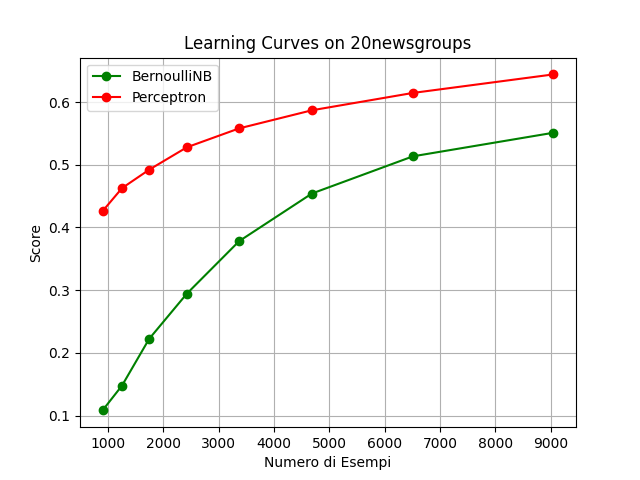
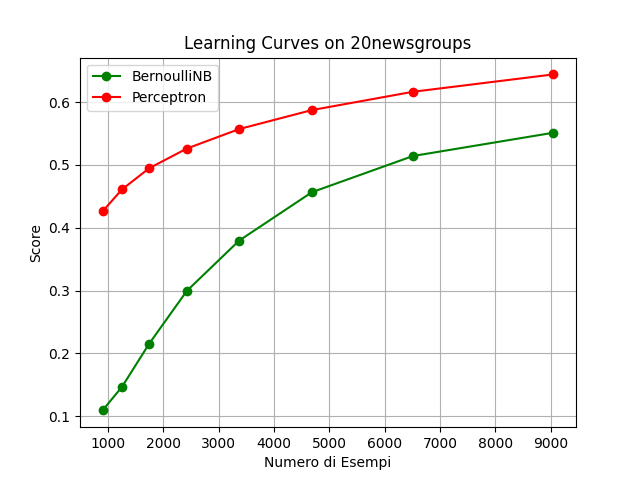
Rimossi documenti ridondanti per Reuter

diff --git a/Reuters.py b/Reuters.py
@@ -78,12 +78,15 @@ def return_X_y_reut():
         for segment in docs:
             if any("<D>" + str(cat).rstrip("']").lstrip("['") + "</D>" in segment for cat in top10cat):
                 if ('LEWISSPLIT="TRAIN"' or 'LEWISSPLIT="TEST"') in segment and 'TOPICS="YES"' in segment:
+                    inlist = False
                     for cate in top10cat:
-                        if "<D>" + str(cate).rstrip("']").lstrip("['") + "</D>" in segment:
+                        if ("<D>" + str(cate).rstrip("']").lstrip("['") + "</D>" in segment) and inlist == False:
                             soup = BeautifulSoup(segment, features="html.parser")
                             reut_body = soup.findAll("body")
                             if len(reut_body) != 0:
                                 body = str(reut_body[0].string)
                                 X.append(body)
                                 y.append(cate)
+                                inlist = True
+
     return X, y
